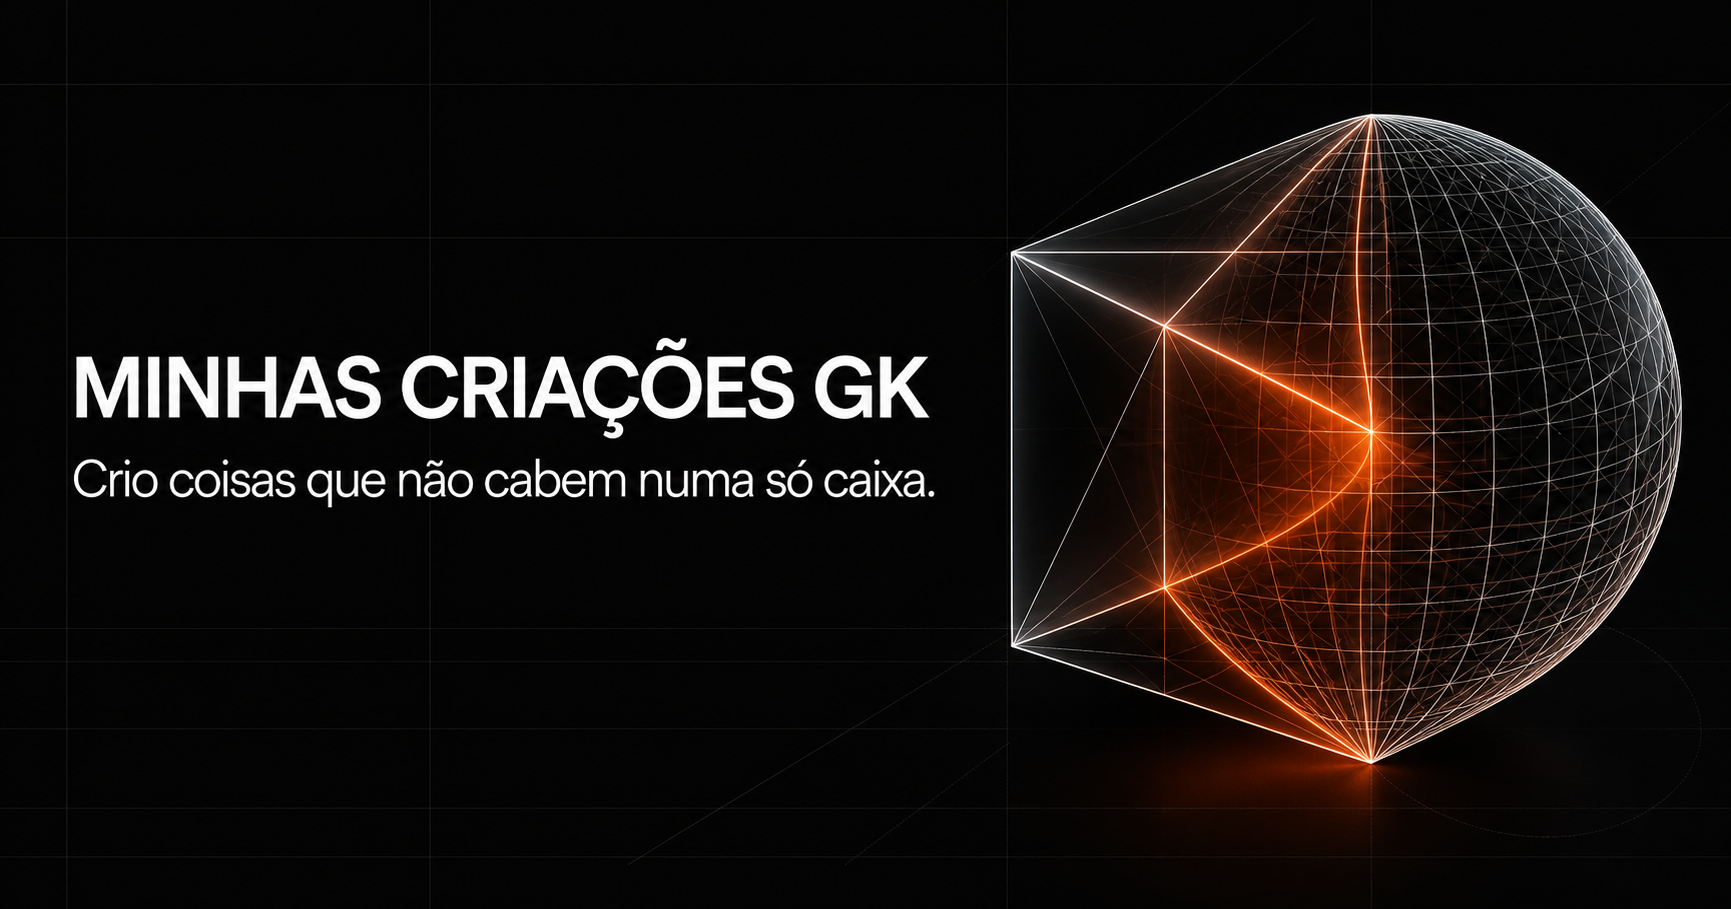
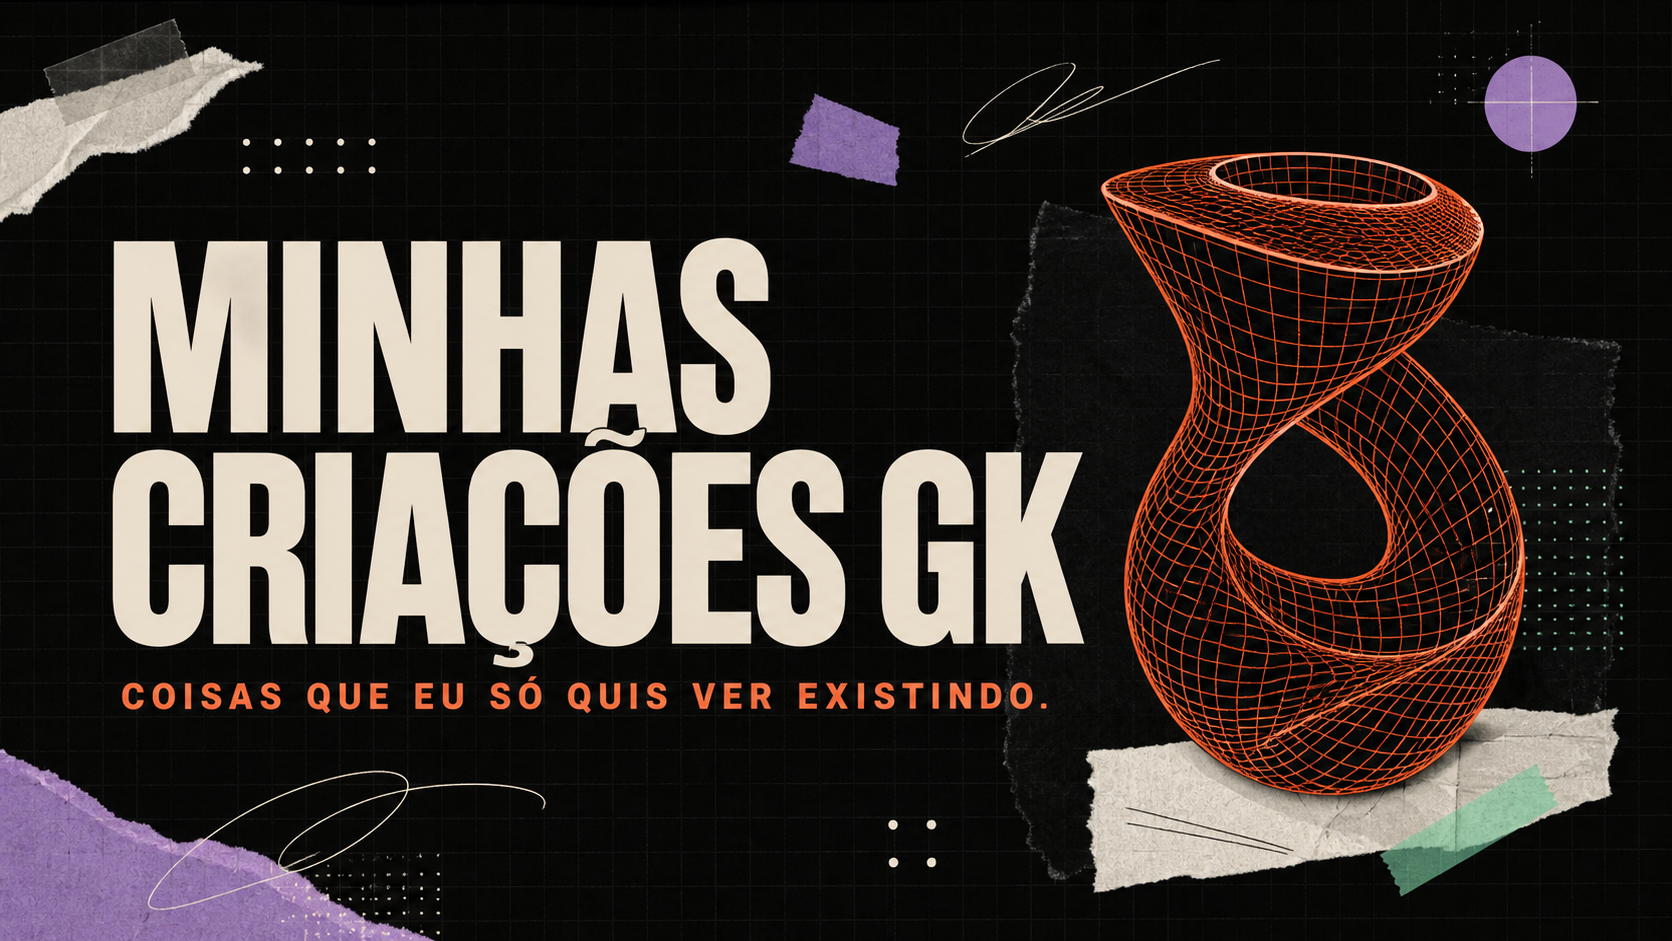
refactor: make creations narrative more personal

diff --git a/lib/content/default-content.ts b/lib/content/default-content.ts
@@ -2,57 +2,57 @@ import type { SiteContent } from './types';
 
 export const defaultContent: SiteContent = {
   hero: {
-    eyebrow: { pt: 'ARQUIVO VIVO · 2026', en: 'LIVING ARCHIVE · 2026' },
+    eyebrow: { pt: 'CADERNO ABERTO · 2026', en: 'OPEN NOTEBOOK · 2026' },
     title: {
       pt: 'Crio coisas que não cabem numa só caixa.',
       en: 'I make things that do not fit in one box.',
     },
     lead: {
-      pt: 'Mídia, identidade, sistemas de estudo, esporte e projetos pessoais — experiências construídas com curiosidade e acabamento.',
-      en: 'Media, identity, learning systems, sports and personal projects — experiences built with curiosity and craft.',
+      pt: 'Este é o lugar onde junto ideias sérias, testes aleatórios, projetos pessoais, fases da vida e coisas que fiz só porque parecia divertido.',
+      en: 'This is where I gather serious ideas, random experiments, personal projects, chapters of life and things I made simply because they sounded fun.',
     },
   },
   metrics: [
-    { id: 'fronts', value: '07', label: { pt: 'frentes criativas', en: 'creative fields' } },
-    { id: 'views', value: '26,6 mi', label: { pt: 'visualizações', en: 'views' } },
-    { id: 'systems', value: '02', label: { pt: 'sistemas de estudo', en: 'learning systems' } },
-    { id: 'languages', value: 'PT/EN', label: { pt: 'experiência bilíngue', en: 'bilingual experience' } },
+    { id: 'fronts', value: '07', label: { pt: 'territórios que já explorei', en: 'territories explored' } },
+    { id: 'views', value: '26,6 mi', label: { pt: 'vezes que algo encontrou alguém', en: 'times something found someone' } },
+    { id: 'systems', value: '02', label: { pt: 'jeitos de organizar o caos', en: 'ways of organizing chaos' } },
+    { id: 'languages', value: 'PT/EN', label: { pt: 'idiomas da mesma curiosidade', en: 'languages for the same curiosity' } },
   ],
   story: [
     {
-      id: 'idea', index: '01',
-      eyebrow: { pt: 'PONTO DE PARTIDA', en: 'STARTING POINT' },
-      title: { pt: 'Ideia', en: 'Idea' },
-      body: { pt: 'Tudo começa com uma pergunta boa o bastante para merecer forma.', en: 'Everything starts with a question good enough to deserve a form.' },
+      id: 'curiosity', index: '01',
+      eyebrow: { pt: 'UMA FAÍSCA', en: 'A SPARK' },
+      title: { pt: 'Curiosidade', en: 'Curiosity' },
+      body: { pt: 'Alguma coisa me intriga e eu preciso descobrir o que acontece se eu seguir a ideia.', en: 'Something intrigues me and I need to find out what happens if I follow the idea.' },
       stat: 'WHY?', accent: '#ff6b4a',
     },
     {
-      id: 'system', index: '02',
-      eyebrow: { pt: 'CLAREZA', en: 'CLARITY' },
-      title: { pt: 'Sistema', en: 'System' },
-      body: { pt: 'Organizo o caos em regras, relações e decisões que podem evoluir.', en: 'I organize chaos into rules, relationships and decisions that can evolve.' },
-      stat: '02×', accent: '#76d7c4',
+      id: 'play', index: '02',
+      eyebrow: { pt: 'SEM PRECISAR JUSTIFICAR', en: 'NO NEED TO EXPLAIN' },
+      title: { pt: 'Brincadeira', en: 'Play' },
+      body: { pt: 'Misturo ferramentas, referências e formatos sem exigir que o resultado seja útil.', en: 'I mix tools, references and formats without demanding that the result be useful.' },
+      stat: 'PLAY', accent: '#76d7c4',
     },
     {
-      id: 'interface', index: '03',
-      eyebrow: { pt: 'EXPRESSÃO', en: 'EXPRESSION' },
-      title: { pt: 'Interface', en: 'Interface' },
-      body: { pt: 'A identidade aparece na tipografia, no ritmo e na hierarquia — nunca só na decoração.', en: 'Identity emerges through type, rhythm and hierarchy — never decoration alone.' },
-      stat: 'UI', accent: '#b7a6ff',
+      id: 'deep-dive', index: '03',
+      eyebrow: { pt: 'QUANDO A IDEIA FICA', en: 'WHEN THE IDEA STICKS' },
+      title: { pt: 'Mergulho', en: 'Deep dive' },
+      body: { pt: 'Volto, erro, refaço, pesquiso demais e vejo até onde aquela coisa quer ir.', en: 'I return, fail, remake, research too much and see how far that thing wants to go.' },
+      stat: 'AGAIN', accent: '#b7a6ff',
     },
     {
-      id: 'motion', index: '04',
-      eyebrow: { pt: 'RITMO', en: 'RHYTHM' },
-      title: { pt: 'Movimento', en: 'Motion' },
-      body: { pt: 'Animação orienta atenção, explica relações e dá personalidade à experiência.', en: 'Motion guides attention, explains relationships and gives the experience character.' },
-      stat: '60', accent: '#f6c760',
+      id: 'affection', index: '04',
+      eyebrow: { pt: 'PORQUE IMPORTA PARA MIM', en: 'BECAUSE IT MATTERS TO ME' },
+      title: { pt: 'Afeto', en: 'Affection' },
+      body: { pt: 'Algumas coisas existem por uma pessoa, uma fase, uma piada interna ou uma lembrança.', en: 'Some things exist for a person, a chapter of my life, an inside joke or a memory.' },
+      stat: '<3', accent: '#f6c760',
     },
     {
-      id: 'delivery', index: '05',
-      eyebrow: { pt: 'MUNDO REAL', en: 'REAL WORLD' },
-      title: { pt: 'Entrega', en: 'Delivery' },
-      body: { pt: 'Publico, observo, aprendo e volto melhor para a próxima versão.', en: 'I ship, observe, learn and return better for the next version.' },
-      stat: 'LIVE', accent: '#ff7fac',
+      id: 'trace', index: '05',
+      eyebrow: { pt: 'PARA NÃO PASSAR EM BRANCO', en: 'SO IT DOES NOT DISAPPEAR' },
+      title: { pt: 'Rastro', en: 'A trace' },
+      body: { pt: 'Se ficou pronto, ótimo. Se virou aprendizado, também. Os dois merecem um lugar aqui.', en: 'Whether it became something finished or simply taught me something, it deserves a place here.' },
+      stat: 'KEEP', accent: '#ff7fac',
     },
   ],
   projects: [

diff --git a/components/admin/AdminDashboard.tsx b/components/admin/AdminDashboard.tsx
@@ -113,7 +113,7 @@ export function AdminDashboard({ initialItems, userName, signOutPath }: { initia
           <div className="admin-languages"><section><span>PORTUGUÊS</span><label>Título<input required value={draft.title.pt} onChange={(event) => setLocalized('title', 'pt', event.target.value)} /></label><label>Categoria<input required value={draft.category.pt} onChange={(event) => setLocalized('category', 'pt', event.target.value)} /></label><label>Resumo<textarea required rows={5} value={draft.summary.pt} onChange={(event) => setLocalized('summary', 'pt', event.target.value)} /></label><label>Texto alternativo<input required value={draft.alt.pt} onChange={(event) => setLocalized('alt', 'pt', event.target.value)} /></label></section><section><span>ENGLISH</span><label>Title<input value={draft.title.en} onChange={(event) => setLocalized('title', 'en', event.target.value)} /></label><label>Category<input value={draft.category.en} onChange={(event) => setLocalized('category', 'en', event.target.value)} /></label><label>Summary<textarea rows={5} value={draft.summary.en} onChange={(event) => setLocalized('summary', 'en', event.target.value)} /></label><label>Alt text<input value={draft.alt.en} onChange={(event) => setLocalized('alt', 'en', event.target.value)} /></label></section></div>
           <div className="admin-row"><label>Imagem / caminho<input required value={draft.image} onChange={(event) => setDraft({ ...draft, image: event.target.value })} placeholder="/api/media/..." /></label><label className="admin-upload">Enviar imagem<input type="file" accept="image/png,image/jpeg,image/webp,image/avif" onChange={(event) => upload(event.target.files?.[0])} /></label></div>
           <div className="admin-row"><label>Link externo<input value={draft.href ?? ''} onChange={(event) => setDraft({ ...draft, href: event.target.value || undefined })} placeholder="https://..." /></label><label>Tags, separadas por vírgula<input value={draft.tags.join(', ')} onChange={(event) => setDraft({ ...draft, tags: event.target.value.split(',').map((tag) => tag.trim()).filter(Boolean) })} /></label></div>
-          <section className="admin-metrics"><div><span>MÉTRICAS OPCIONAIS</span><p>Use em destaques como números de audiência, entregas ou resultados.</p></div>{[0, 1, 2].map((index) => <div className="admin-metric-row" key={index}><label>Valor<input value={draft.metrics?.[index]?.value ?? ''} onChange={(event) => setMetric(index, 'value', event.target.value)} placeholder="25,1 mil" /></label><label>Rótulo PT<input value={draft.metrics?.[index]?.label.pt ?? ''} onChange={(event) => setMetric(index, 'pt', event.target.value)} placeholder="inscritos" /></label><label>Label EN<input value={draft.metrics?.[index]?.label.en ?? ''} onChange={(event) => setMetric(index, 'en', event.target.value)} placeholder="subscribers" /></label></div>)}</section>
+          <section className="admin-metrics"><div><span>MÉTRICAS OPCIONAIS</span><p>Use para números, curiosidades ou pequenas histórias que ajudem a apresentar a criação.</p></div>{[0, 1, 2].map((index) => <div className="admin-metric-row" key={index}><label>Valor<input value={draft.metrics?.[index]?.value ?? ''} onChange={(event) => setMetric(index, 'value', event.target.value)} placeholder="25,1 mil" /></label><label>Rótulo PT<input value={draft.metrics?.[index]?.label.pt ?? ''} onChange={(event) => setMetric(index, 'pt', event.target.value)} placeholder="inscritos" /></label><label>Label EN<input value={draft.metrics?.[index]?.label.en ?? ''} onChange={(event) => setMetric(index, 'en', event.target.value)} placeholder="subscribers" /></label></div>)}</section>
           <div className="admin-checks"><label><input type="checkbox" checked={draft.visible} onChange={(event) => setDraft({ ...draft, visible: event.target.checked })} />Visível</label><label><input type="checkbox" checked={draft.featured} onChange={(event) => setDraft({ ...draft, featured: event.target.checked, kind: event.target.checked ? 'highlight' : draft.kind })} />Destaque</label></div>
           {draft.image && <div className="admin-preview"><img src={draft.image} alt="Prévia do upload" /><span style={{ background: draft.accent }} /></div>}
           <div className="admin-submit"><button type="submit" disabled={busy}>{busy ? 'Salvando…' : editing ? 'Publicar alterações' : 'Adicionar ao arquivo'}</button><p role="status">{message}</p></div>

diff --git a/components/site/PinnedNarrative.tsx b/components/site/PinnedNarrative.tsx
@@ -61,8 +61,8 @@ export function PinnedNarrative({ locale, steps }: { locale: Locale; steps: Stor
     <section ref={sectionRef} className="story" aria-labelledby="story-title">
       <div className="story__rail">
         <div className="story__heading">
-          <p className="section-kicker">{locale === 'pt' ? 'DO IMPULSO À ENTREGA' : 'FROM IMPULSE TO DELIVERY'}</p>
-          <h2 id="story-title">{locale === 'pt' ? 'Uma criação, cinco camadas.' : 'One creation, five layers.'}</h2>
+          <p className="section-kicker">{locale === 'pt' ? 'NÃO É UM PROCESSO' : 'THIS IS NOT A PROCESS'}</p>
+          <h2 id="story-title">{locale === 'pt' ? 'Cinco motivos para fazer uma coisa.' : 'Five reasons to make a thing.'}</h2>
         </div>
         {steps.map((step, index) => (
           <article key={step.id} className={`story-step ${active === index ? 'is-active' : ''}`} data-step={index}>
@@ -99,9 +99,9 @@ export function PinnedNarrative({ locale, steps }: { locale: Locale; steps: Stor
           <div className="stack-core"><span>{current.stat}</span></div>
         </div>
         <div className="story__visual-meta">
-          <span>GK / PROCESS</span>
+          <span>{locale === 'pt' ? 'GK / MOTIVOS' : 'GK / REASONS'}</span>
           <strong>{current.index} — {current.title[locale].toUpperCase()}</strong>
-          <span>STATE {String(active + 1).padStart(2, '0')} / {String(steps.length).padStart(2, '0')}</span>
+          <span>{locale === 'pt' ? 'PULSO' : 'IMPULSE'} {String(active + 1).padStart(2, '0')} / {String(steps.length).padStart(2, '0')}</span>
         </div>
       </div>
     </section>

diff --git a/components/site/Footer.tsx b/components/site/Footer.tsx
@@ -7,7 +7,7 @@ const glyphs = 'GK+*01/<>#';
 
 export function Footer({ locale }: { locale: Locale }) {
   const ref = useRef<HTMLElement>(null);
-  const finalText = locale === 'pt' ? 'VAMOS CRIAR ALGO?' : 'SHALL WE MAKE SOMETHING?';
+  const finalText = locale === 'pt' ? 'ME CONTA UMA IDEIA ESTRANHA?' : 'TELL ME A STRANGE IDEA?';
   const [scrambled, setScrambled] = useState(finalText);
 
   useEffect(() => {
@@ -39,7 +39,7 @@ export function Footer({ locale }: { locale: Locale }) {
     <footer ref={ref} className="footer">
       <div className="footer__top">
         <p>GUSTAVO GIACOIA KUMAGAI · 2026</p>
-        <a href="https://gustavo-giacoia.vercel.app/" target="_blank" rel="noreferrer">{locale === 'pt' ? 'PORTFÓLIO TÉCNICO ↗' : 'TECH PORTFOLIO ↗'}</a>
+        <a href="https://gustavo-giacoia.vercel.app/" target="_blank" rel="noreferrer">{locale === 'pt' ? 'MEU LADO TÉCNICO ↗' : 'MY TECHNICAL SIDE ↗'}</a>
       </div>
       <a className="footer__cta" href="mailto:contato@gusgk.com.br" aria-label={finalText}>
         <span aria-hidden="true">{scrambled}</span>
@@ -47,7 +47,7 @@ export function Footer({ locale }: { locale: Locale }) {
       </a>
       <div className="footer__bottom">
         <span>MINHAS CRIAÇÕES GK</span>
-        <span>{locale === 'pt' ? 'FEITO COM CURIOSIDADE' : 'BUILT WITH CURIOSITY'}</span>
+        <span>{locale === 'pt' ? 'SEM NICHO. COM CURIOSIDADE.' : 'NO NICHE. JUST CURIOSITY.'}</span>
         <a href="#top">{locale === 'pt' ? 'VOLTAR AO TOPO ↑' : 'BACK TO TOP ↑'}</a>
       </div>
     </footer>

diff --git a/app/layout.tsx b/app/layout.tsx
@@ -4,7 +4,7 @@ import './globals.css';
 export const metadata: Metadata = {
   metadataBase: new URL('https://criacoes.gusgk.com.br'),
   title: 'Minhas Criações GK — Gustavo Giacoia Kumagai',
-  description: 'Um arquivo vivo de mídia, identidade, sistemas de estudo, esporte, impacto e projetos pessoais de Gustavo Giacoia Kumagai.',
+  description: 'Um espaço pessoal para ideias, experimentos, projetos, memórias e coisas feitas por curiosidade — terminadas ou não.',
   authors: [{ name: 'Gustavo Giacoia Kumagai', url: 'https://gustavo-giacoia.vercel.app/' }],
   creator: 'Gustavo Giacoia Kumagai',
   alternates: { canonical: '/' },
@@ -15,13 +15,13 @@ export const metadata: Metadata = {
     url: '/',
     siteName: 'Minhas Criações GK',
     title: 'Minhas Criações GK — Gustavo Giacoia Kumagai',
-    description: 'Crio coisas que não cabem numa só caixa.',
-    images: [{ url: '/og.png', width: 1734, height: 909, alt: 'Minhas Criações GK — Crio coisas que não cabem numa só caixa.' }],
+    description: 'Coisas que eu só quis ver existindo.',
+    images: [{ url: '/og.png', width: 1672, height: 941, alt: 'Minhas Criações GK — Coisas que eu só quis ver existindo.' }],
   },
   twitter: {
     card: 'summary_large_image',
     title: 'Minhas Criações GK',
-    description: 'Crio coisas que não cabem numa só caixa.',
+    description: 'Coisas que eu só quis ver existindo.',
     images: ['/og.png'],
   },
   icons: {

diff --git a/components/site/ProjectArchive.tsx b/components/site/ProjectArchive.tsx
@@ -67,9 +67,9 @@ export function ProjectArchive({ locale, projects }: { locale: Locale; projects:
   return (
     <section ref={sectionRef} className="projects" aria-labelledby="projects-title">
       <header className="projects__header">
-        <p className="section-kicker">{locale === 'pt' ? 'TRABALHOS SELECIONADOS' : 'SELECTED WORK'}</p>
-        <h2 id="projects-title">{locale === 'pt' ? 'Coisas que já ganharam forma.' : 'Things that have taken shape.'}</h2>
-        <p>{locale === 'pt' ? 'Do canal que alcançou milhões ao sistema que organiza uma aula — cada projeto pede uma linguagem.' : 'From a channel reaching millions to a system organizing one class — every project asks for its own language.'}</p>
+        <p className="section-kicker">{locale === 'pt' ? 'O QUE JÁ SAIU DA CABEÇA' : 'THINGS THAT MADE IT OUT OF MY HEAD'}</p>
+        <h2 id="projects-title">{locale === 'pt' ? 'Sério, estranho, útil ou só divertido.' : 'Serious, strange, useful or simply fun.'}</h2>
+        <p>{locale === 'pt' ? 'Aqui cabem o canal que alcançou milhões, um jogo cheio de piadas internas, sistemas para estudar e lembranças que eu quis guardar.' : 'There is room here for a channel that reached millions, a game full of inside jokes, systems for studying and memories I wanted to keep.'}</p>
       </header>
 
       <div className="projects__featured">

diff --git a/components/site/Hero.tsx b/components/site/Hero.tsx
@@ -14,7 +14,7 @@ export function Hero({ locale, onToggleLocale, content }: { locale: Locale; onTo
         <div className="topbar__meta" aria-hidden="true">
           <span>SÃO PAULO · BR</span>
           <span className="status-dot" />
-          <span>{locale === 'pt' ? 'DISPONÍVEL PARA CRIAR' : 'AVAILABLE TO CREATE'}</span>
+          <span>{locale === 'pt' ? 'SEMPRE INVENTANDO ALGO' : 'ALWAYS MAKING SOMETHING'}</span>
         </div>
         <div className="topbar__actions">
           <button
@@ -50,10 +50,10 @@ export function Hero({ locale, onToggleLocale, content }: { locale: Locale; onTo
         </div>
 
         <div className="hero__index" aria-label={locale === 'pt' ? 'Resumo do arquivo' : 'Archive summary'}>
-          <span>01 — {locale === 'pt' ? 'MÍDIA' : 'MEDIA'}</span>
-          <span>02 — {locale === 'pt' ? 'MARCA' : 'BRAND'}</span>
-          <span>03 — {locale === 'pt' ? 'SISTEMAS' : 'SYSTEMS'}</span>
-          <span>04 — {locale === 'pt' ? 'IMPACTO' : 'IMPACT'}</span>
+          <span>01 — {locale === 'pt' ? 'IDEIAS' : 'IDEAS'}</span>
+          <span>02 — {locale === 'pt' ? 'TESTES' : 'EXPERIMENTS'}</span>
+          <span>03 — {locale === 'pt' ? 'MEMÓRIAS' : 'MEMORIES'}</span>
+          <span>04 — {locale === 'pt' ? 'PROJETOS' : 'PROJECTS'}</span>
         </div>
       </section>
 

diff --git a/components/site/MetricsSection.tsx b/components/site/MetricsSection.tsx
@@ -43,9 +43,9 @@ export function MetricsSection({ locale, metrics }: { locale: Locale; metrics: M
       </div>
       <div className="metrics__inner">
         <div className="section-intro section-intro--dark">
-          <p className="section-kicker">{locale === 'pt' ? 'O ARQUIVO EM NÚMEROS' : 'THE ARCHIVE IN NUMBERS'}</p>
-          <h2 id="metrics-title">{locale === 'pt' ? 'Sete frentes. Um mesmo impulso.' : 'Seven fields. One impulse.'}</h2>
-          <p>{locale === 'pt' ? 'Cada número abre uma história — não um dashboard.' : 'Every number opens a story — not a dashboard.'}</p>
+          <p className="section-kicker">{locale === 'pt' ? 'UM ARQUIVO SEM HIERARQUIA' : 'AN ARCHIVE WITHOUT RANKINGS'}</p>
+          <h2 id="metrics-title">{locale === 'pt' ? 'Algumas coisas cresceram. Outras só precisavam existir.' : 'Some things grew. Others simply needed to exist.'}</h2>
+          <p>{locale === 'pt' ? 'Aqui, alcance, afeto, aprendizado e diversão dividem a mesma prateleira.' : 'Here, reach, affection, learning and fun all share the same shelf.'}</p>
         </div>
         <div className="metrics__grid">
           {metrics.map((metric, index) => (

diff --git a/components/motion/PrismCanvas.tsx b/components/motion/PrismCanvas.tsx
@@ -188,10 +188,10 @@ export function PrismCanvas({ locale }: { locale: Locale }) {
     <div ref={wrapRef} className="prism" aria-hidden="true">
       <div className="prism__halo" />
       <canvas ref={canvasRef} className="prism__canvas" />
-      <span className="prism__label prism__label--top">{locale === 'pt' ? 'IDEIA' : 'IDEA'} / 01</span>
-      <span className="prism__label prism__label--right">{locale === 'pt' ? 'MOVIMENTO' : 'MOTION'} / 04</span>
-      <span className="prism__label prism__label--bottom">{locale === 'pt' ? 'ENTREGA' : 'DELIVERY'} / 05</span>
-      <span className="prism__label prism__label--left">{locale === 'pt' ? 'SISTEMA' : 'SYSTEM'} / 02</span>
+      <span className="prism__label prism__label--top">{locale === 'pt' ? 'CURIOSIDADE' : 'CURIOSITY'} / 01</span>
+      <span className="prism__label prism__label--right">{locale === 'pt' ? 'AFETO' : 'AFFECTION'} / 04</span>
+      <span className="prism__label prism__label--bottom">{locale === 'pt' ? 'RASTRO' : 'TRACE'} / 05</span>
+      <span className="prism__label prism__label--left">{locale === 'pt' ? 'BRINCADEIRA' : 'PLAY'} / 02</span>
     </div>
   );
 }

diff --git a/README.md b/README.md
@@ -1,6 +1,6 @@
 # Minhas Criações GK
 
-Arquivo criativo de Gustavo Giacoia Kumagai. A versão 2 separa interface, conteúdo, animações, persistência e painel administrativo — o antigo `index.html` autocontido de aproximadamente 15 MB não faz mais parte da aplicação.
+Espaço pessoal de criatividade de Gustavo Giacoia Kumagai: ideias sérias, testes aleatórios, projetos, memórias e coisas feitas simplesmente pela vontade de vê-las existir. A versão 2 separa interface, conteúdo, animações, persistência e painel administrativo — o antigo `index.html` autocontido de aproximadamente 15 MB não faz mais parte da aplicação.
 
 ## O que existe agora
 
